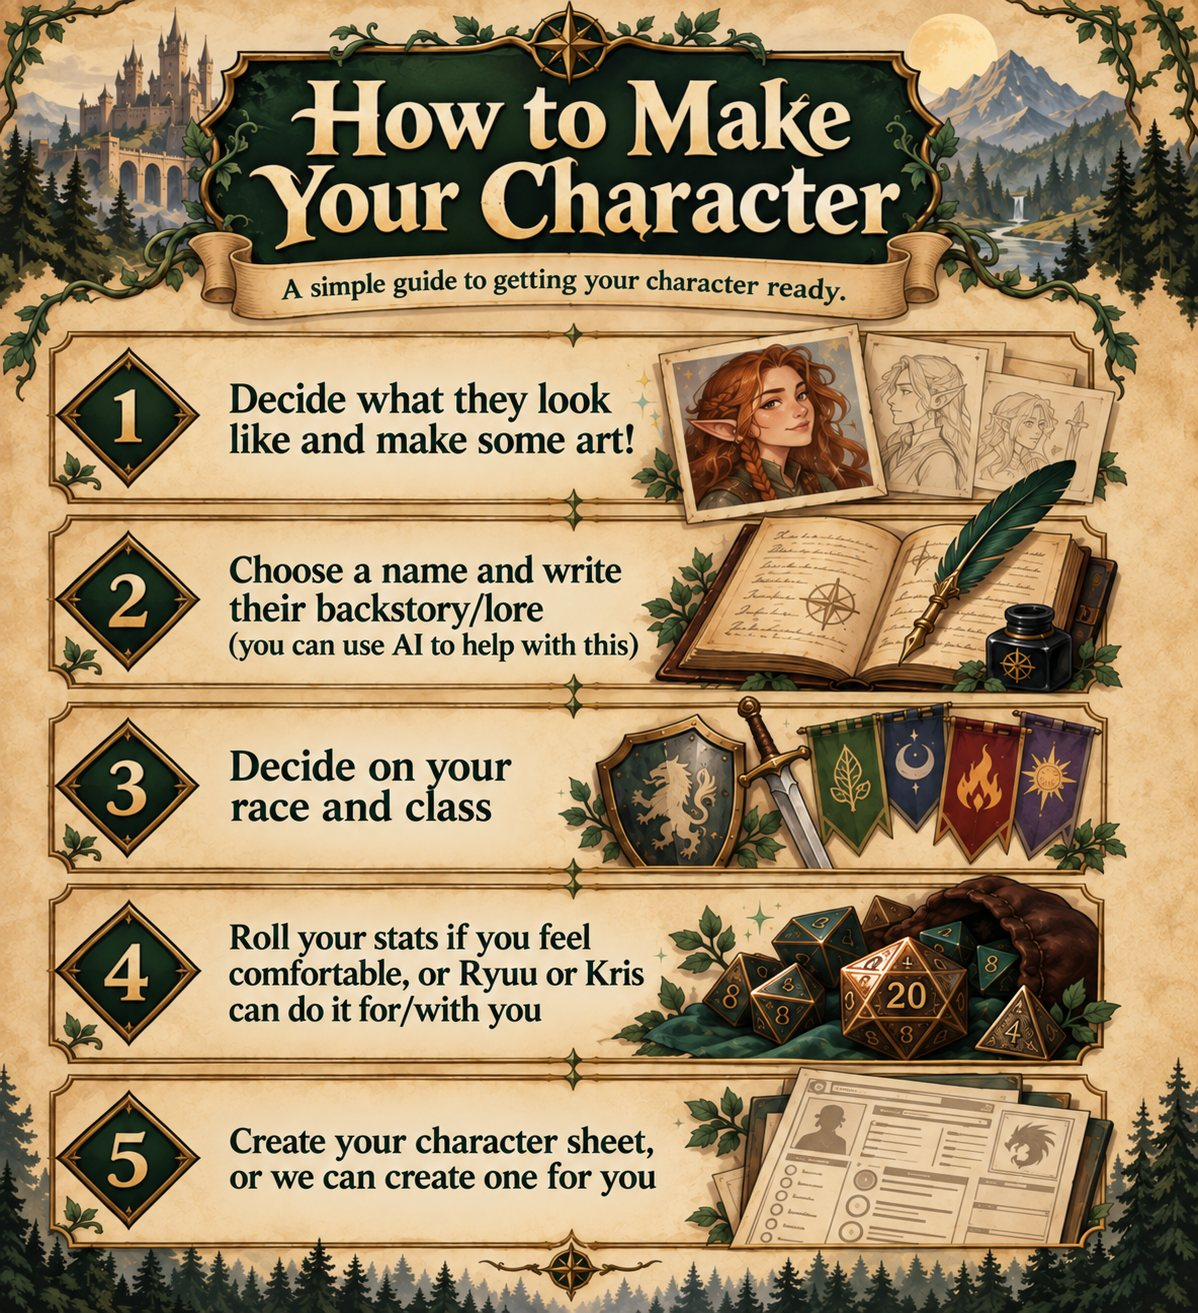
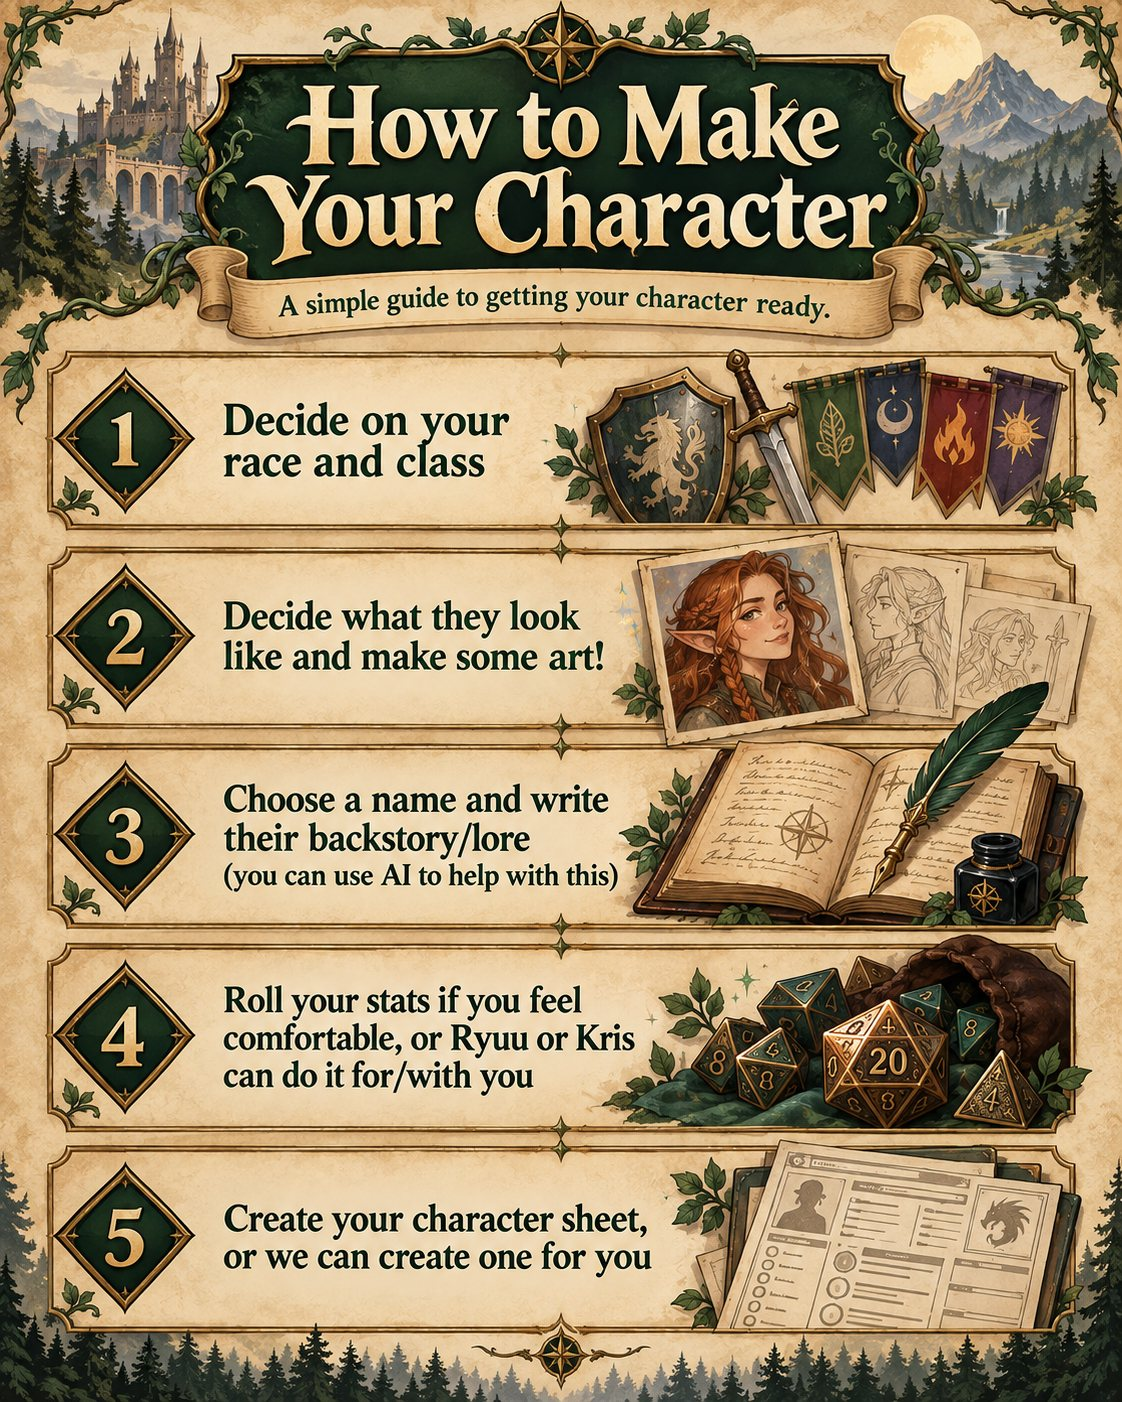
Use the revised character guide poster
Race and class moves to step one, ahead of appearance and backstory.
The written steps beside it follow the same order.

diff --git a/index.html b/index.html
@@ -410,16 +410,16 @@
       <div class="quickstart reveal">
         <figure class="quickstart-art">
           <a href="assets/character-guide.jpg" target="_blank" rel="noopener">
-            <img src="assets/character-guide.jpg" width="1198" height="1313" loading="lazy" decoding="async" alt="An illustrated parchment poster of the five character-creation steps listed alongside it, framed by forest, a distant castle, dice, banners, an open book with a quill, and a blank character sheet.">
+            <img src="assets/character-guide.jpg" width="1122" height="1402" loading="lazy" decoding="async" alt="An illustrated parchment poster of the five character-creation steps listed alongside it, framed by forest, a distant castle, banners and a sword, dice, an open book with a quill, and a blank character sheet.">
           </a>
         </figure>
         <div class="quickstart-steps">
           <p class="eyebrow">A simple guide to getting your character ready</p>
           <h3>How to make your character</h3>
           <ol>
-            <li><span>1</span><p>Decide what they look like, and make some art.</p></li>
-            <li><span>2</span><p>Choose a name and write their backstory or lore. You can use AI to help with this.</p></li>
-            <li><span>3</span><p>Decide on your race and class.</p></li>
+            <li><span>1</span><p>Decide on your race and class.</p></li>
+            <li><span>2</span><p>Decide what they look like, and make some art.</p></li>
+            <li><span>3</span><p>Choose a name and write their backstory or lore. You can use AI to help with this.</p></li>
             <li><span>4</span><p>Roll your stats if you feel comfortable, or Ryuu or Kris can do it for you or with you.</p></li>
             <li><span>5</span><p>Create your character sheet, or we can create one for you.</p></li>
           </ol>
